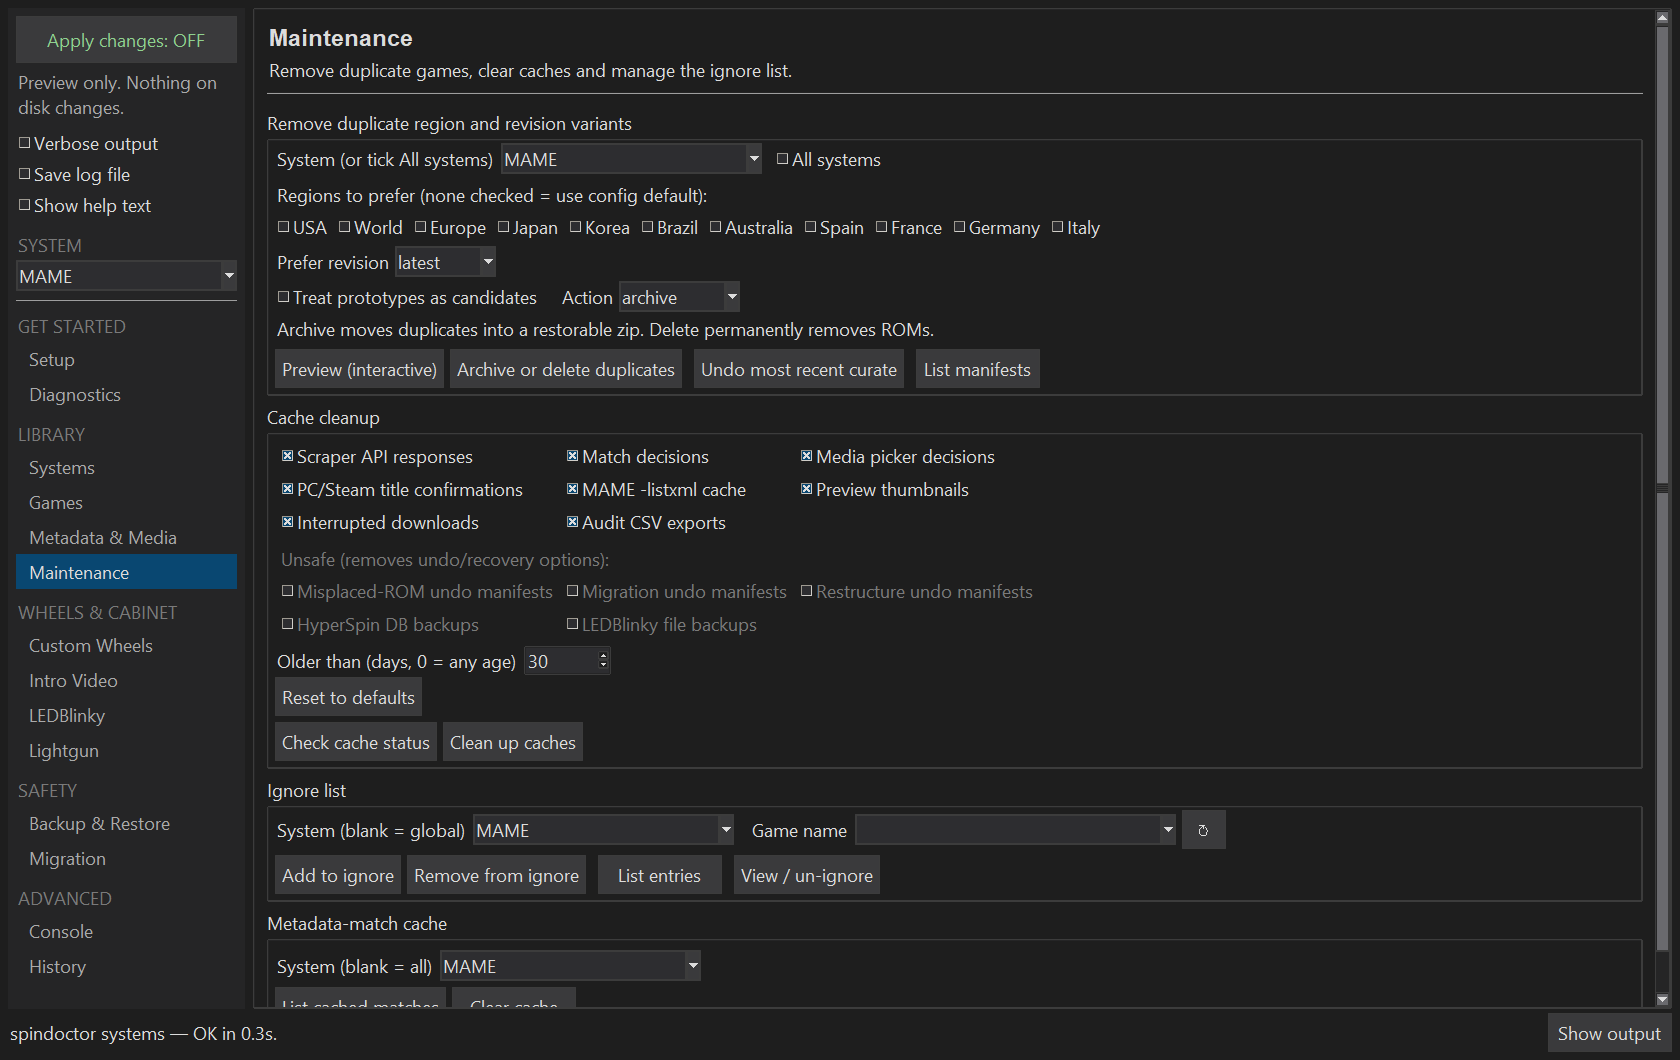
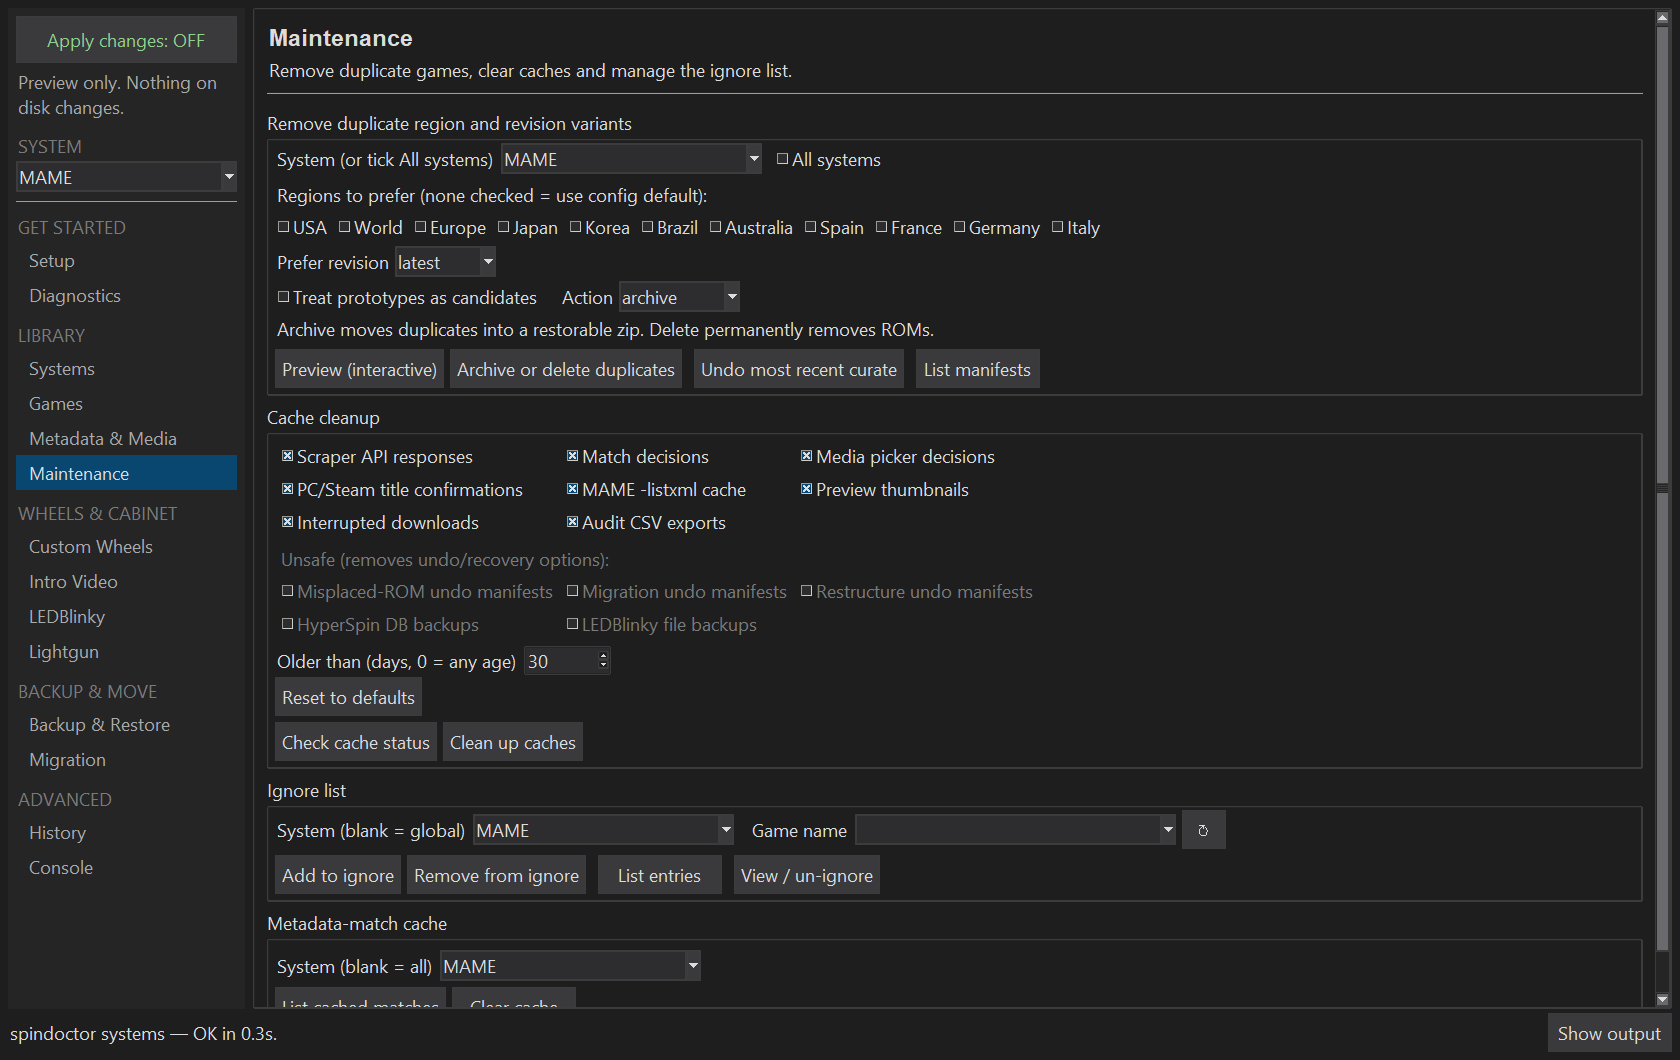
feat(gui): move run settings to the View menu and reorder the sidebar
Verbose output, Save log file and Show help text become View menu
checkbuttons bound to the same BooleanVars, so every call site is
unchanged. A reminder under the Apply switch shows while Verbose or Save
log is on. "Safety" is renamed "Backup & move", and History is built
before Console so the Advanced group reads History, Console. A saved
gui_last_active_tab of 12/13 opens the other page once.

Changed region(s): [[0.0, 0.1245, 0.1548, 0.934]]

diff --git a/spindoctor/gui.py b/spindoctor/gui.py
@@ -220,8 +220,8 @@ _SIDEBAR_GROUPS: tuple[tuple[str, tuple[str, ...]], ...] = (
     ("Get started", ("Setup", "Diagnostics")),
     ("Library", ("Systems", "Games", "Metadata & Media", "Maintenance")),
     ("Wheels & cabinet", ("Custom Wheels", "Intro Video", "LEDBlinky", "Lightgun")),
-    ("Safety", ("Backup & Restore", "Migration")),
-    ("Advanced", ("Console", "History")),
+    ("Backup & move", ("Backup & Restore", "Migration")),
+    ("Advanced", ("History", "Console")),
 )
 
 
@@ -2343,6 +2343,13 @@ class _SpinDoctorGUI:
         return header
 
     def _build_layout(self) -> None:
+        # Shared run settings. Created before the menubar, whose View menu
+        # binds Verbose / Save log / Show help text to them, and before
+        # the page builders, which register their help text.
+        self._global_apply_var = self.tk.BooleanVar(master=self.root, value=False)
+        self._global_verbose_var = self.tk.BooleanVar(master=self.root, value=False)
+        self._global_savelog_var = self.tk.BooleanVar(master=self.root, value=False)
+        self._show_help_var = self.tk.BooleanVar(master=self.root, value=False)
         self._build_menubar()
 
         # Use grid on the root so the status bar (row 1, weight=0) is
@@ -2403,8 +2410,6 @@ class _SpinDoctorGUI:
         )
 
         nb = self.ttk.Notebook(main_paned, style="Sidebar.TNotebook")
-        # Created before the page builders, which register their help text.
-        self._show_help_var = self.tk.BooleanVar(master=self.root, value=False)
         self._help_bodies: list[tuple[object, object]] = []
         self._nb = nb
 
@@ -2509,8 +2514,8 @@ class _SpinDoctorGUI:
         # (Metadata & Media), curate (Maintenance), manage cross-system
         # wheels (Custom Wheels), then peripheral hardware (LEDBlinky /
         # Lightgun), then infrastructure (Backup → Migration), and finally
-        # power-user escapes (Console) and the session log (History)
-        # at the very end.
+        # the session log (History), checked after every run, then the
+        # power-user escape hatch (Console) at the very end.
         self._add_scrollable_tab(nb, self._build_setup_tab,        "Setup")
         self._add_scrollable_tab(nb, self._build_diagnostics_tab,  "Diagnostics")
         self._add_scrollable_tab(nb, self._build_systems_tab,      "Systems")
@@ -2523,7 +2528,6 @@ class _SpinDoctorGUI:
         self._add_scrollable_tab(nb, self._build_lightgun_tab,     "Lightgun")
         self._add_scrollable_tab(nb, self._build_backup_tab,       "Backup & Restore")
         self._add_scrollable_tab(nb, self._build_migrate_tab,      "Migration")
-        self._add_scrollable_tab(nb, self._build_custom_tab,       "Console")
         # History tab is the only one that intentionally fills its own
         # vertical space (tree + viewer panes), so it doesn't need
         # the wrapping scrollbar.
@@ -2532,6 +2536,7 @@ class _SpinDoctorGUI:
         self._build_logs_tab(history).pack(fill="both", expand=True)
         nb.add(history, text="History")
         self._tab_base_names.append("History")
+        self._add_scrollable_tab(nb, self._build_custom_tab,       "Console")
         main_paned.add(nb, weight=4)
         main_paned.add(out_frame, weight=1)
 
@@ -2590,11 +2595,6 @@ class _SpinDoctorGUI:
         if not self._output_visible:
             self._output_toggle_btn.grid(row=0, column=3, padx=(6, 0))
 
-        # Apply / Verbose / Save Log are shared by every page and live at
-        # the top of the sidebar.
-        self._global_apply_var = self.tk.BooleanVar(value=False)
-        self._global_verbose_var = self.tk.BooleanVar(value=False)
-        self._global_savelog_var = self.tk.BooleanVar(value=False)
         self._build_sidebar(nb)
 
         # Ctrl+1..9 jump to notebook tabs by 1-based index. Cabinet
@@ -2715,18 +2715,16 @@ class _SpinDoctorGUI:
             self.tk,
         )
         self._apply_hint = self._responsive_label(side, text="")
-        self._apply_hint.pack(fill="x", pady=(4, 6))
-        for label, var in (
-            ("Verbose output", self._global_verbose_var),
-            ("Save log file", self._global_savelog_var),
-            ("Show help text", self._show_help_var),
-        ):
-            self.ttk.Checkbutton(
-                side, text=label, variable=var, style="Sidebar.TCheckbutton",
-            ).pack(anchor="w")
-        self.ttk.Label(
+        self._apply_hint.pack(fill="x", pady=(4, 0))
+        # Verbose / Save log / Show help text live in the View menu. While
+        # Verbose or Save log is on, this reminder shows so it isn't
+        # forgotten; packed only while it has something to say.
+        self._run_settings_cue = self._responsive_label(side, text="")
+        self._run_settings_cue.configure(style="SidebarHintOn.TLabel")
+        self._system_heading = self.ttk.Label(
             side, text="SYSTEM", style="SidebarGroup.TLabel",
-        ).pack(anchor="w", pady=(10, 1))
+        )
+        self._system_heading.pack(anchor="w", pady=(10, 1))
         self._current_system_var = self.tk.StringVar(master=self.root, value="")
         self._current_system_combo = self.ttk.Combobox(
             side, textvariable=self._current_system_var,
@@ -2778,7 +2776,26 @@ class _SpinDoctorGUI:
         self._show_help_var.trace_add(
             "write", lambda *_a: self._apply_help_visibility(),
         )
+        for var in (self._global_verbose_var, self._global_savelog_var):
+            var.trace_add("write", lambda *_a: self._refresh_run_settings_cue())
         self._refresh_apply_toggle()
+        self._refresh_run_settings_cue()
+
+    def _refresh_run_settings_cue(self) -> None:
+        on = [
+            label for label, var in (
+                ("Verbose output", self._global_verbose_var),
+                ("Save log file", self._global_savelog_var),
+            ) if var.get()
+        ]
+        cue = self._run_settings_cue
+        if on:
+            cue.configure(text="On: " + ", ".join(on) + " (View menu)")
+            if not cue.winfo_manager():
+                cue.pack(fill="x", pady=(4, 0), before=self._system_heading)
+        else:
+            cue.configure(text="")
+            cue.pack_forget()
 
     def _push_current_system(self, *, only_blank: bool = False) -> None:
         var = getattr(self, "_current_system_var", None)
@@ -3231,6 +3248,16 @@ class _SpinDoctorGUI:
             ),
             accelerator="Ctrl+`",
         )
+        view_menu.add_separator()
+        # Shared run settings, rarely changed, so they live here rather
+        # than crowding the sidebar (which shows a reminder while Verbose
+        # or Save log is on).
+        for label, var in (
+            ("Verbose output", self._global_verbose_var),
+            ("Save log file", self._global_savelog_var),
+            ("Show help text", self._show_help_var),
+        ):
+            view_menu.add_checkbutton(label=label, variable=var)
         view_menu.add_separator()
 
         # UI-scale presets (radio group). The radio var stores the scale

diff --git a/tests/test_gui.py b/tests/test_gui.py
@@ -1008,8 +1008,8 @@ def test_gui_constructs_against_real_tk():
             "Lightgun",
             "Backup & Restore",
             "Migration",
-            "Console",
             "History",
+            "Console",
         ]
         # The hoisted widgets that have crashed in past releases:
         assert app._output is not None
@@ -1304,8 +1304,8 @@ def test_gui_survives_missing_keysym_in_bind_all():
                 "Lightgun",
                 "Backup & Restore",
                 "Migration",
-                "Console",
                 "History",
+                "Console",
             ]
         finally:
             app.root.destroy()
@@ -2695,6 +2695,54 @@ def test_sidebar_apply_switch_is_loud_and_drives_global_apply(monkeypatch):
         assert bar_texts == set()
     finally:
         app.root.destroy()
+
+
+def _view_menu(app):
+    menubar = app.root.nametowidget(app.root.cget("menu"))
+    for i in range(menubar.index("end") + 1):
+        if menubar.type(i) == "cascade" and menubar.entrycget(i, "label") == "View":
+            return app.root.nametowidget(menubar.entrycget(i, "menu"))
+    raise AssertionError("no View menu")
+
+
+def test_run_settings_live_in_view_menu_with_sidebar_cue(monkeypatch):
+    app, _tk = _build_gui_for_test(monkeypatch)
+    try:
+        # No checkbuttons left in the sidebar.
+        assert not [
+            w for w in app._sidebar.winfo_children()
+            if w.winfo_class() == "TCheckbutton"
+        ]
+        menu = _view_menu(app)
+        entries = {
+            menu.entrycget(i, "label"): str(menu.entrycget(i, "variable"))
+            for i in range(menu.index("end") + 1)
+            if menu.type(i) == "checkbutton"
+        }
+        # Same BooleanVars every command reads.
+        assert entries["Verbose output"] == str(app._global_verbose_var)
+        assert entries["Save log file"] == str(app._global_savelog_var)
+        assert entries["Show help text"] == str(app._show_help_var)
+
+        cue = app._run_settings_cue
+        assert cue.winfo_manager() == ""
+        app._global_verbose_var.set(True)
+        assert cue.winfo_manager() == "pack"
+        assert cue.cget("text") == "On: Verbose output (View menu)"
+        app._global_savelog_var.set(True)
+        assert cue.cget("text") == "On: Verbose output, Save log file (View menu)"
+        app._global_verbose_var.set(False)
+        app._global_savelog_var.set(False)
+        assert cue.winfo_manager() == ""
+    finally:
+        app.root.destroy()
+
+
+def test_sidebar_groups_and_advanced_order():
+    titles = [title for title, _names in gui._SIDEBAR_GROUPS]
+    assert "Safety" not in titles
+    assert ("Backup & move", ("Backup & Restore", "Migration")) in gui._SIDEBAR_GROUPS
+    assert gui._SIDEBAR_GROUPS[-1] == ("Advanced", ("History", "Console"))
 
 
 def test_output_header_holds_panel_buttons(monkeypatch):

diff --git a/docs/gui.md b/docs/gui.md
@@ -49,13 +49,13 @@ Existing installs and re-runs use the same dialog. There is no auto-open behavio
 
 A single window with a grouped page list in a sidebar on the left, a shared **Output** panel along the bottom (resizable via a draggable sash), and a status bar at the very bottom. The Output panel's header row holds **Find**, **Copy**, **Clear** and **Hide**. The status bar shows the current command and, while a command runs, a progress bar with **Stop** beside it. While the Output panel is hidden, a **Show output** button appears in the status bar. Every page scrolls vertically with an always-visible scrollbar so cabinet owners on 1024×768 / 1280×720 displays can still reach widgets that overflow.
 
-The sidebar groups the pages as **Get started** (Setup, Diagnostics), **Library** (Systems, Games, Metadata & Media, Maintenance), **Wheels & cabinet** (Custom Wheels, Intro Video, LEDBlinky, Lightgun), **Safety** (Backup & Restore, Migration) and **Advanced** (Console, History). Ctrl+1 to Ctrl+9 jump to the first nine pages in that order.
+The sidebar groups the pages as **Get started** (Setup, Diagnostics), **Library** (Systems, Games, Metadata & Media, Maintenance), **Wheels & cabinet** (Custom Wheels, Intro Video, LEDBlinky, Lightgun), **Backup & move** (Backup & Restore, Migration) and **Advanced** (History, Console). Ctrl+1 to Ctrl+9 jump to the first nine pages in that order.
 
 The status bar text is automatically truncated when a command string is too long to fit; the progress bar, Stop and Show output stay visible regardless of command length.
 
 ### Apply changes, Verbose output, and Save log file
 
-The top of the sidebar holds four settings that apply to **every command on every page**:
+Four settings apply to **every command on every page**. **Apply changes** is the switch at the top of the sidebar; the other three are checkbuttons in the **View** menu. While **Verbose output** or **Save log file** is on, a reminder under the Apply switch says so (for example "On: Verbose output (View menu)").
 
 | Setting | Effect |
 |---|---|
@@ -72,7 +72,7 @@ The **System** dropdown in the sidebar selects a system in every section at once
 
 ## Tab tour
 
-Tabs appear in new-user journey order: configure paths first (Setup), then confirm the cabinet is healthy (Diagnostics — read-only, so it's safe to explore before touching anything), then build out systems (Systems), then manage games within those systems (Games), enrich metadata (Metadata & Media), curate the library (Maintenance), manage cross-system wheels (Custom Wheels), manage the boot-video randomizer pool (Intro Video), configure hardware (LEDBlinky / Lightgun), then infrastructure (Backup & Restore → Migration), and finally power-user escapes (Console) and the session log (History) at the very end.
+Tabs appear in new-user journey order: configure paths first (Setup), then confirm the cabinet is healthy (Diagnostics — read-only, so it's safe to explore before touching anything), then build out systems (Systems), then manage games within those systems (Games), enrich metadata (Metadata & Media), curate the library (Maintenance), manage cross-system wheels (Custom Wheels), manage the boot-video randomizer pool (Intro Video), configure hardware (LEDBlinky / Lightgun), then infrastructure (Backup & Restore → Migration), and finally the session log (History) and power-user escapes (Console) at the very end.
 
 Screenshots below show SpinDoctor's dark theme at 125% UI scale with a synthetic sample cabinet, not a real library. Your systems, paths and enabled controls will differ. Maintainers can regenerate them on Windows with `python scripts/capture_gui_screenshots.py`.
 
@@ -370,17 +370,9 @@ Six numbered steps walk through the full migration workflow.
 
 Ticking **Apply** pops a confirmation dialog before running — the wording adapts to the chosen mode. `--keep-source` shows a milder "copy to new drive, originals stay" message; the default destructive move warns explicitly that originals will be removed and points at the undo-manifest as the only recovery path.
 
-### Console
-
-![Console tab, shown with a sample cabinet](screenshots/13-console.png)
-
-Anything the dedicated tabs don't cover. The entry field is an editable Combobox seeded with canonical commands organised into named sections (`─── Health & Discovery ───`, `─── LEDBlinky ───`, etc.). Every CLI command with meaningful flag variants is represented, and commands within each section are alphabetically sorted. Selecting a section header auto-advances to the first real command in that section. Default value is `--help`. Pick a preset, edit `<PLACEHOLDER>` tokens (`<SYSTEM>`, `<PATH>`, `<ROM>`, …), press Enter or click Run. Unfilled placeholders trigger a warning instead of silently shelling out.
-
-Quoting values with spaces (e.g. `emulator-title set "Model 2" "Sega Model 2"`) works the same as on the command line — the quote characters themselves are stripped before the arguments reach the CLI, so `"Daphne"` and `Daphne` are equivalent input here.
-
 ### History
 
-![History tab, shown with a sample cabinet](screenshots/14-history.png)
+![History tab, shown with a sample cabinet](screenshots/13-history.png)
 
 Persistent timeline of every action taken since the GUI was launched, newest first. Tree on the left (Status / Started / Command); read-only viewer on the right showing the full output of the selected row. Each row tags as `DRY-RUN`, `OK`, `FAIL <code>`, or `running`. The viewer header shows `# Dry-run: Yes` (preview), `# Dry-run: No` (wrote to disk), or `# Dry-run: N/A` (read-only or write-always command where the concept does not apply). **Save selected output** exports the selected entry to a `.txt` file and appends its own log entry recording the saved path.
 
@@ -397,6 +389,14 @@ its output to a file when you need a complete verbose log.
 
 A **Browse manifests / undo** button next to Refresh/Copy/Clear (separated by a vertical Separator) signposts the menu's "Logs & Manifests" viewer for new users who land on the History tab first.
 
+### Console
+
+![Console tab, shown with a sample cabinet](screenshots/14-console.png)
+
+Anything the dedicated tabs don't cover. The entry field is an editable Combobox seeded with canonical commands organised into named sections (`─── Health & Discovery ───`, `─── LEDBlinky ───`, etc.). Every CLI command with meaningful flag variants is represented, and commands within each section are alphabetically sorted. Selecting a section header auto-advances to the first real command in that section. Default value is `--help`. Pick a preset, edit `<PLACEHOLDER>` tokens (`<SYSTEM>`, `<PATH>`, `<ROM>`, …), press Enter or click Run. Unfilled placeholders trigger a warning instead of silently shelling out.
+
+Quoting values with spaces (e.g. `emulator-title set "Model 2" "Sega Model 2"`) works the same as on the command line — the quote characters themselves are stripped before the arguments reach the CLI, so `"Daphne"` and `Daphne` are equivalent input here.
+
 ## Menubar
 
 A `File` / `View` / `Help` menubar runs across the top of the window:
@@ -407,6 +407,7 @@ A `File` / `View` / `Help` menubar runs across the top of the window:
 - **File → View logs & manifests** — opens a Toplevel listing every per-run JSON manifest under `~/.spindoctor/{migrations,curation,edits,renames,media_imports,themes,misplaced}/` with a tree on the left and a read-only JSON viewer on the right. Three buttons at the bottom: **Undo this run** (runs the matching `--undo` for the selected manifest), **Show diff** (renders changes as a before/after table), **Revert just \<SYSTEM\>** (theme swaps only — one-system revert via `--revert-system`).
 - **File → Browse HyperSpin themes** — opens a Toplevel inventorying every overlay file under `Media/Frontend/Images/` and per-system `Media/<system>/Images/{Special A,Special B}/`.
 - **View → Show output pane** — checkbutton (also bound to `Ctrl+`` ` ``) that collapses or restores the bottom Output panel, as do the panel's **Hide** button and the status bar's **Show output** button. State persists across restarts via the `output_visible` config key.
+- **View → Verbose output / Save log file / Show help text** — checkbuttons for the shared run settings described in [Apply changes, Verbose output, and Save log file](#apply-changes-verbose-output-and-save-log-file). Not saved between sessions.
 - **View → UI scale** — radio submenu with presets `0.8×` / `0.9×` / `1.0×` / `1.1×` / `1.25×` / `1.5×`. `Ctrl++` / `Ctrl+-` step by 0.1; `Ctrl+0` resets. Persisted via the `ui_scale` config key.
 - **Help → About SpinDoctor** — version, description, and links to GitHub project / latest release / CHANGELOG. Shows the app icon next to the title when the bundled PNG icon is available.
 - **Help → Keyboard shortcuts** — opens an in-app reference for the shortcut map listed below.

diff --git a/CHANGELOG.md b/CHANGELOG.md
@@ -16,8 +16,9 @@ The format follows [Keep a Changelog](https://keepachangelog.com/en/1.1.0/), and
 - **GUI pages move to a grouped sidebar.** The 14 tabs across the top are replaced by a page list on the left, grouped as Get started, Library, Wheels & cabinet, Safety and Advanced. Page order, Ctrl+1 to Ctrl+9 and the remembered last page are unchanged. **Apply**, **Verbose** and **Save Log** move from the bottom status bar to the top of the sidebar; Apply is now a large **Apply changes: OFF / ON** switch that turns orange while changes will be written.
 - **Plainer GUI labels.** Section titles no longer carry "Step N" numbers except in Migration and the first-run wizard, where the order matters. Buttons use sentence case, symbol prefixes (▶, ✈) and CLI flags (`--all-roms`, `--overwrite-pclauncher`, `--include-proto`) are gone from labels, and LEDBlinky's MAME buttons drop their 3a/3b/3c prefixes.
 - **One System picker for the whole GUI, and fewer repeated buttons.** A **System** dropdown in the sidebar selects that system in every section; section dropdowns can still pick a different one. The Games page uses it instead of its own picker. **Run Health Check** now lives only on Diagnostics (removed from Setup and Migration), Metadata & Media has one **Restore DB backup** button, LEDBlinky has one **Normalize Colors.ini** button (in the MAME section), and Migration's backup step links to the Backup & Restore page instead of repeating its controls.
+- **Less crowded sidebar.** **Verbose output**, **Save log file** and **Show help text** move from the top of the sidebar to the **View** menu. While Verbose or Save log is on, a reminder under the Apply switch says so. The **Safety** group is renamed **Backup & move**, and **History** now comes before **Console** in the Advanced group. A remembered last page of Console or History opens the other one once after upgrading.
 - **Output buttons move into the Output panel, and Stop shows only while a command runs.** The panel's header row now holds **Find** (same as Ctrl+F), **Copy**, **Clear** and **Hide**, so they hide along with the panel. The status bar keeps the command text and, while a command runs, the progress bar with **Stop** right beside it. While the Output panel is hidden, a **Show output** button takes its place in the status bar.
-- **Compact GUI help.** Every page starts with its title and a one-line summary. Longer explanations are hidden until you tick **Show help text** in the sidebar, which shows or hides all of them at once, and wrap to the window width instead of a fixed pixel width. Repetitive tips were removed and remaining text shortened. Delete, overwrite and always-writes warnings stay visible.
+- **Compact GUI help.** Every page starts with its title and a one-line summary. Longer explanations are hidden until you check **View → Show help text**, which shows or hides all of them at once, and wrap to the window width instead of a fixed pixel width. Repetitive tips were removed and remaining text shortened. Delete, overwrite and always-writes warnings stay visible.
 
 ### Removed
 

diff --git a/docs/cabinet-architecture-reference.md b/docs/cabinet-architecture-reference.md
@@ -226,7 +226,7 @@ J:\spindoctor\
 └── temps\      ← optional staging for targets on the same filesystem
 ```
 
-The GUI's **Save log file** checkbox (top of the sidebar) (off by default) writes a `.txt` backup of each finished command's exact output straight into `output_dir` — a saved diagnostic log, not a guarantee that other commands write there. Review it before sharing.
+The GUI's **Save log file** setting (View menu) (off by default) writes a `.txt` backup of each finished command's exact output straight into `output_dir` — a saved diagnostic log, not a guarantee that other commands write there. Review it before sharing.
 
 MAME `listxml` cache (used by `ledblinky generate`) is stored at:
 ```
